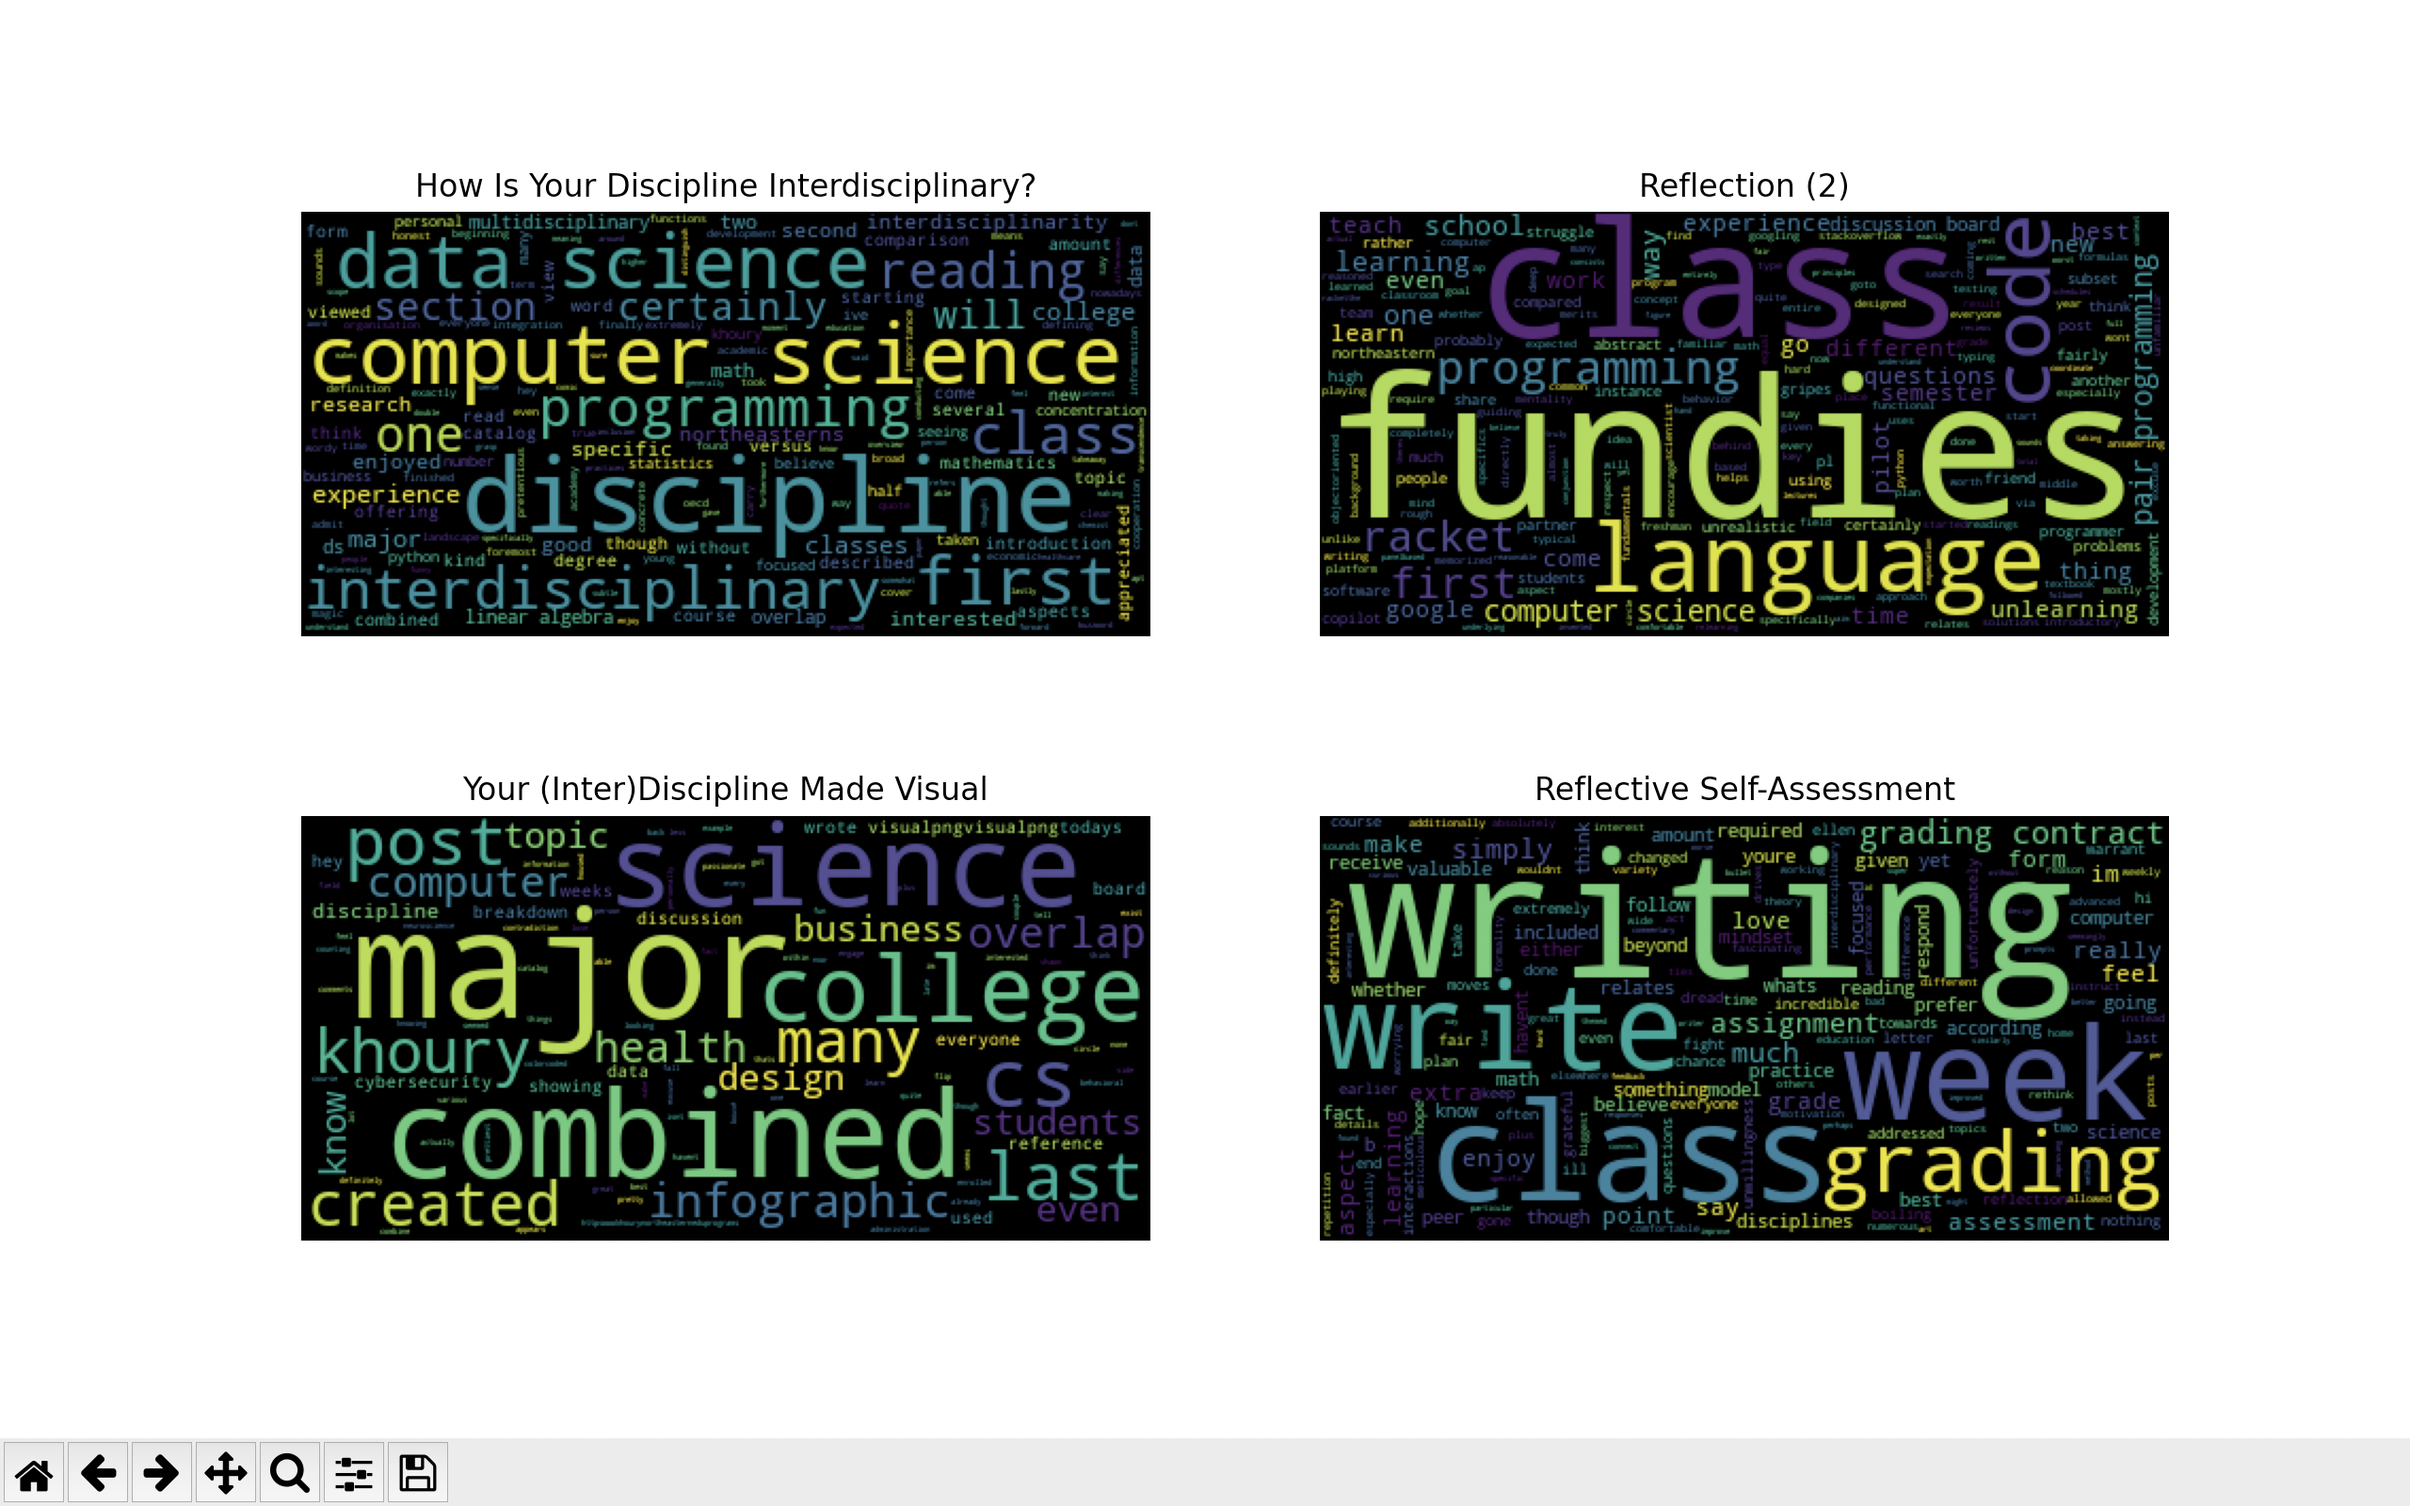
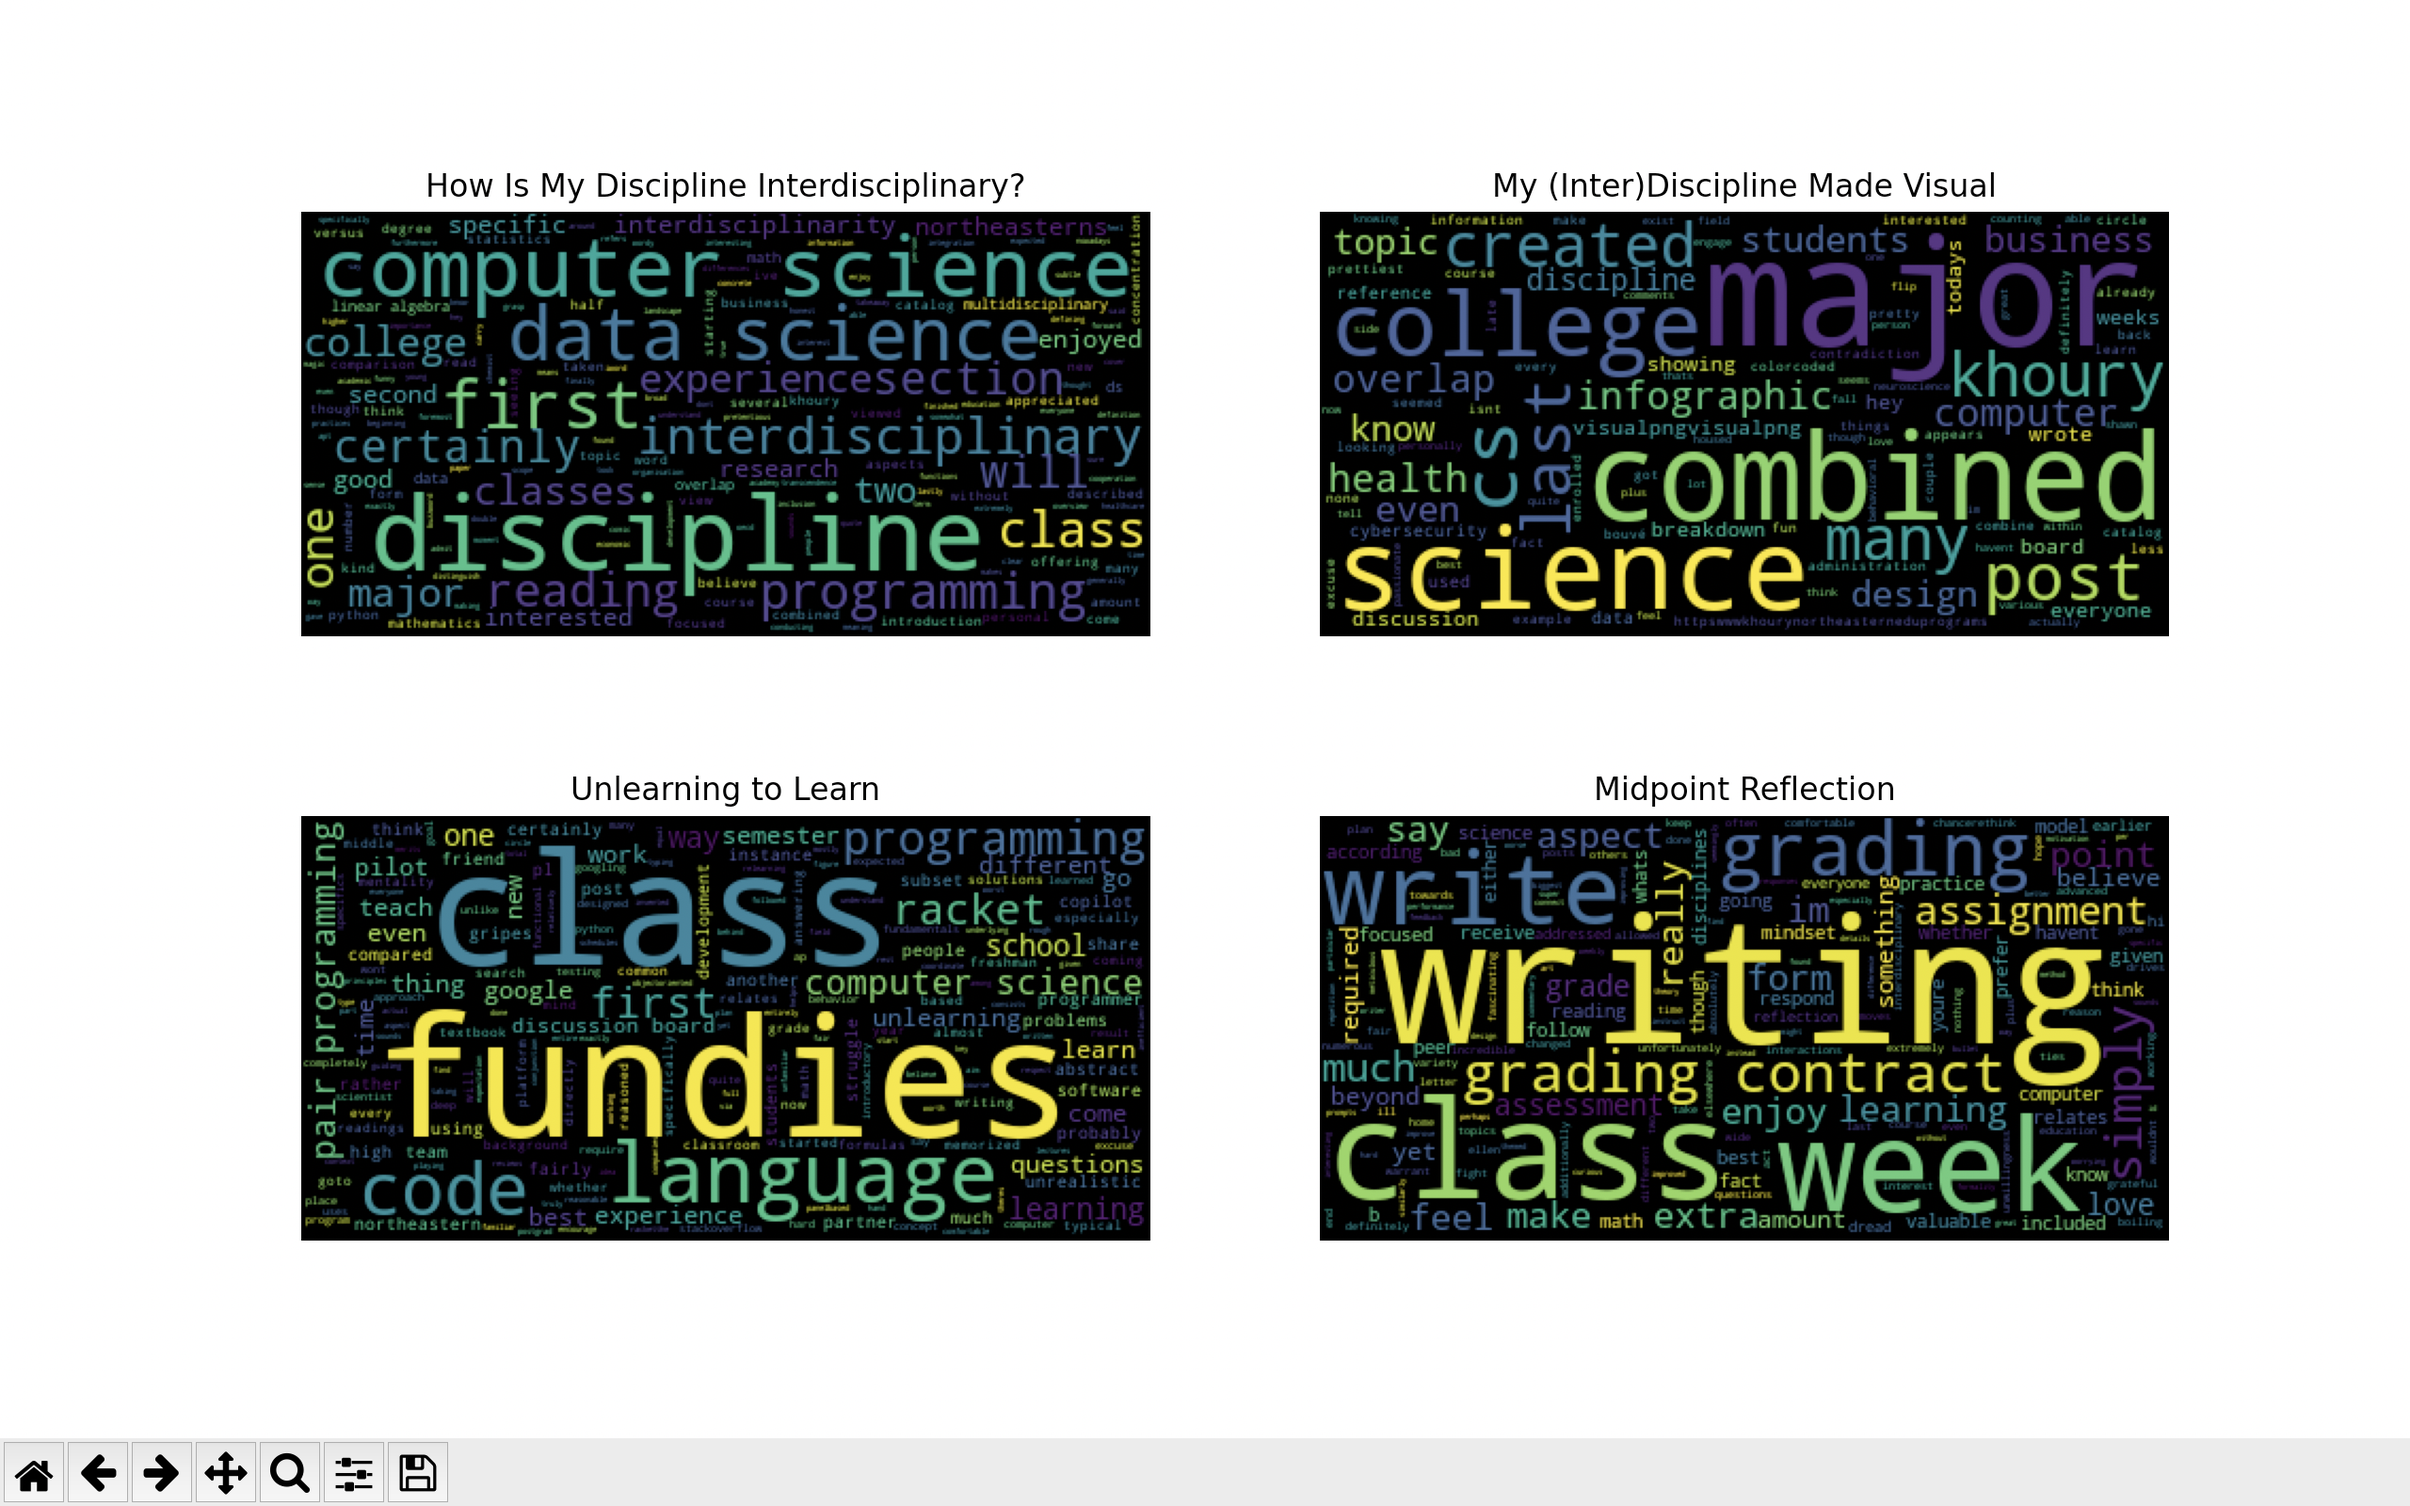
modified file names, updated word clouds

diff --git a/word_cloud_generator.py b/word_cloud_generator.py
@@ -3,10 +3,10 @@ import wordcloud as wc
 import matplotlib.pyplot as plt
 
 files = [
-    'how-is-your-discipline-interdisciplinary',
-    'reflection2',
-    'your-discipline-made-visual',
-    'reflective-self-assessment'
+    'how-is-my-discipline-interdisciplinary',
+    'my-discipline-made-visual',
+    'unlearning-to-learn',
+    'midpoint-reflection'
 ]
 
 def clean_text(text):

diff --git a/unlearning-to-learn.md b/unlearning-to-learn.md
@@ -1,4 +1,4 @@
-### Reflection (2)
+### Unlearning to Learn
 ---
 
 As I have for almost every one of my discussion board posts, I will be writing to my experiences of unlearning to learn as it relates to my background as a programmer. The first thing that comes to mind is how different learning how to code can be compared to a typical classroom learning experience, especially in middle and high school. I first started programming in my freshman year of high school. Up until then, I think it's a fairly common mentality to not just go to Google for questions or solutions. Whether it's answering questions based directly on textbook readings, math problems that can be reasoned out, or memorized formulas, Google was not the go-to platform coming out of grade school that it is now. Google Search, and more specifically StackOverflow, is a programmer's best friend. Such behavior of Googling any and all questions is also completely expected in the work place.

diff --git a/how-is-my-discipline-interdisciplinary.md b/how-is-my-discipline-interdisciplinary.md
@@ -1,4 +1,4 @@
-### How Is Your Discipline Interdisciplinary?
+### How Is My Discipline Interdisciplinary?
 ---
 Hey everyone,
 

diff --git a/my-discipline-made-visual.md b/my-discipline-made-visual.md
@@ -1,4 +1,4 @@
-### Your (Inter)Discipline Made Visual
+### My (Inter)Discipline Made Visual
 ---
 
 ![visual.png](visual.png)

diff --git a/midpoint-reflection.md b/midpoint-reflection.md
@@ -1,4 +1,4 @@
-### Reflective Self-Assessment
+### Midpoint Reflection
 ---
 
 Hi everyone,
